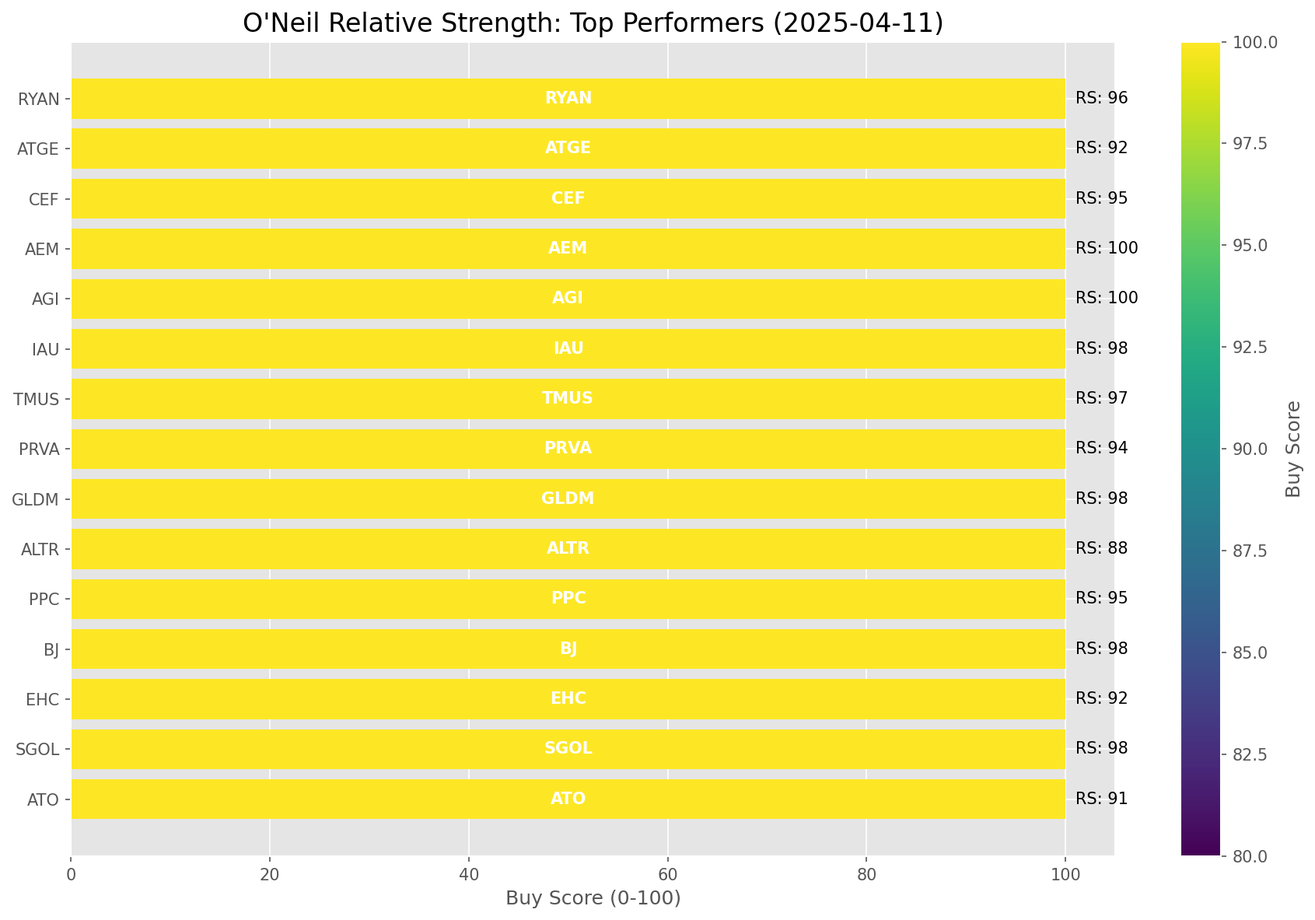
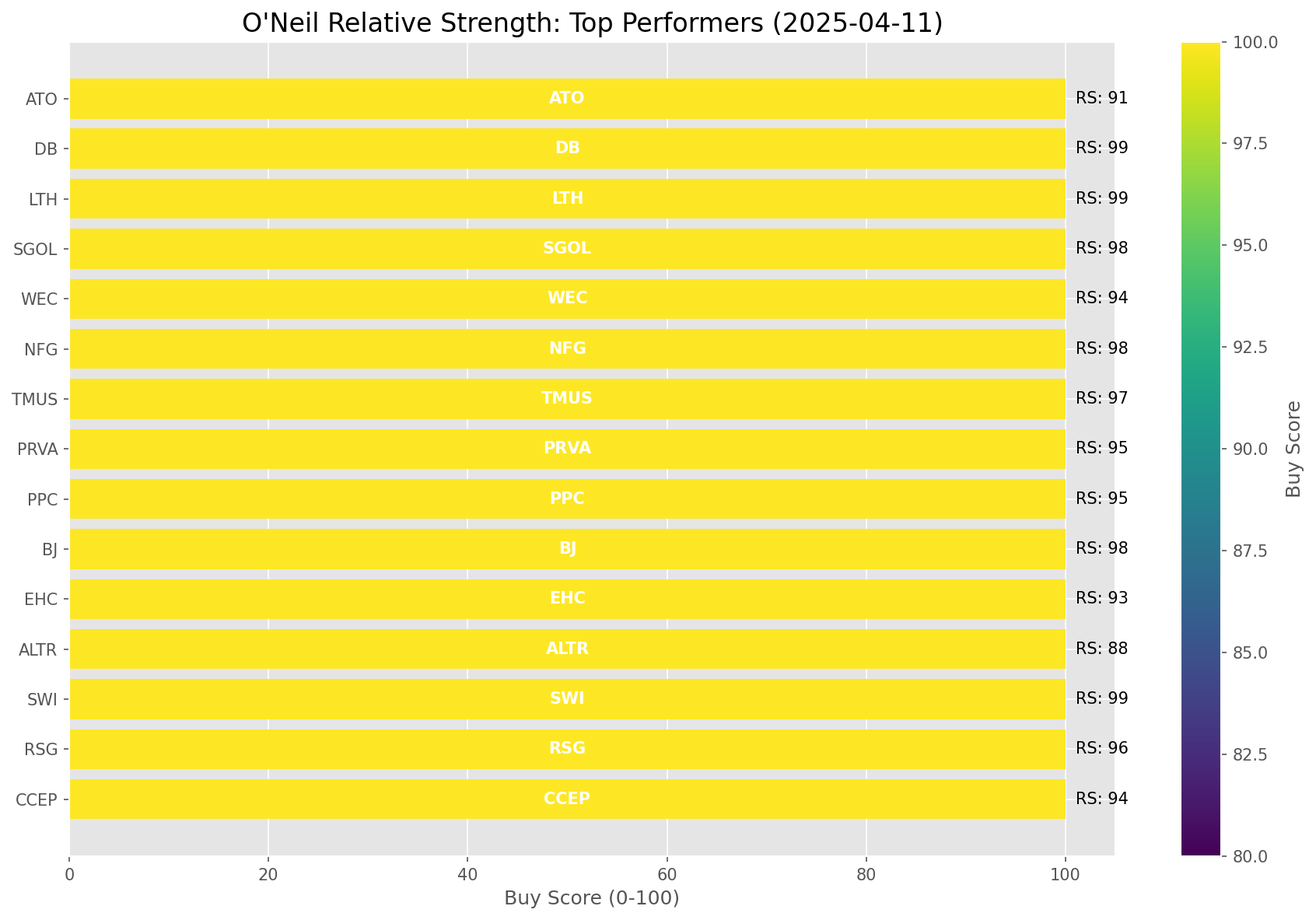
Add market report for 2025-04-11

diff --git a/oneil_relative_strength_report_2025-04-11.md b/oneil_relative_strength_report_2025-04-11.md
@@ -9,11 +9,11 @@
 | Metric | Value |
 |--------|-------|
 | **Market Valuation** | **Significantly Undervalued** |
-| **Current Ratio** | 8.75 |
+| **Current Ratio** | 8.78 |
 | **Historical Mean** | 9.69 |
 | **Standard Deviation** | 0.44 |
 | **Z-Score (StdDev from Mean)** | -2.33 |
-| **Total Market Cap** | $260.02 trillion |
+| **Total Market Cap** | $261.09 trillion |
 | **GDP** | $29.72 trillion |
 
 ## **Market Insights**
@@ -49,41 +49,41 @@ Based on William O'Neil's Relative Strength Methodology
 
 | ETF | Strength | RS Rating | Performance | Above Key MAs | Trend | Sector |
 |-----|----------|-----------|-------------|--------------|-------|--------|
-| [GLD](https://www.tradingview.com/chart/?symbol=GLD) | 99.0 | 98.0 | 21.04% | 10d ✓, 50d ✓, 200d ✓ | ↗ | Gold |
-| [SLV](https://www.tradingview.com/chart/?symbol=SLV) | 84.6 | 89.0 | 6.44% | 10d ✓, 50d ✗, 200d ✓ | ↗ | Silver |
-| [XLP](https://www.tradingview.com/chart/?symbol=XLP) | 83.1 | 86.0 | 3.84% | 10d ✓, 50d ✗, 200d ✓ | ↗ | Consumer Staples |
-| [DBA](https://www.tradingview.com/chart/?symbol=DBA) | 77.6 | 75.0 | -0.82% | 10d ✓, 50d ✗, 200d ✓ | ↗ | Agriculture |
-| [CIBR](https://www.tradingview.com/chart/?symbol=CIBR) | 74.6 | 69.0 | -3.30% | 10d ✓, 50d ✗, 200d ✓ | ↗ | Cybersecurity |
-| [KWEB](https://www.tradingview.com/chart/?symbol=KWEB) | 64.5 | 89.0 | 6.42% | 10d ✗, 50d ✗, 200d ✗ | ↗ | Chinese Internet |
-| [IYZ](https://www.tradingview.com/chart/?symbol=IYZ) | 64.2 | 68.0 | -4.20% | 10d ✗, 50d ✗, 200d ✓ | ↗ | Telecommunications |
-| [XLI](https://www.tradingview.com/chart/?symbol=XLI) | 61.4 | 63.0 | -5.90% | 10d ✓, 50d ✗, 200d ✗ | ↗ | Industrial |
-| [XLU](https://www.tradingview.com/chart/?symbol=XLU) | 58.5 | 77.0 | -0.04% | 10d ✗, 50d ✗, 200d ✗ | ↗ | Utilities |
-| [XLF](https://www.tradingview.com/chart/?symbol=XLF) | 54.0 | 68.0 | -4.18% | 10d ✗, 50d ✗, 200d ✗ | ↗ | Financial |
-| [IYR](https://www.tradingview.com/chart/?symbol=IYR) | 53.5 | 67.0 | -4.40% | 10d ✗, 50d ✗, 200d ✗ | ↗ | Real Estate |
-| [XLC](https://www.tradingview.com/chart/?symbol=XLC) | 50.5 | 61.0 | -6.57% | 10d ✗, 50d ✗, 200d ✗ | ↗ | Communications |
-| [UUP](https://www.tradingview.com/chart/?symbol=UUP) | 50.0 | 60.0 | -7.16% | 10d ✗, 50d ✗, 200d ✗ | ↗ | U.S. Dollar |
+| [GLD](https://www.tradingview.com/chart/?symbol=GLD) | 98.5 | 97.0 | 21.24% | 10d ✓, 50d ✓, 200d ✓ | ↗ | Gold |
+| [SLV](https://www.tradingview.com/chart/?symbol=SLV) | 84.6 | 89.0 | 6.70% | 10d ✓, 50d ✗, 200d ✓ | ↗ | Silver |
+| [XLP](https://www.tradingview.com/chart/?symbol=XLP) | 83.1 | 86.0 | 3.99% | 10d ✓, 50d ✗, 200d ✓ | ↗ | Consumer Staples |
+| [DBA](https://www.tradingview.com/chart/?symbol=DBA) | 77.1 | 74.0 | -0.85% | 10d ✓, 50d ✗, 200d ✓ | ↗ | Agriculture |
+| [CIBR](https://www.tradingview.com/chart/?symbol=CIBR) | 75.1 | 70.0 | -2.49% | 10d ✓, 50d ✗, 200d ✓ | ↗ | Cybersecurity |
+| [KWEB](https://www.tradingview.com/chart/?symbol=KWEB) | 65.0 | 90.0 | 7.46% | 10d ✗, 50d ✗, 200d ✗ | ↗ | Chinese Internet |
+| [IYZ](https://www.tradingview.com/chart/?symbol=IYZ) | 63.7 | 67.0 | -4.05% | 10d ✗, 50d ✗, 200d ✓ | ↗ | Telecommunications |
+| [XLI](https://www.tradingview.com/chart/?symbol=XLI) | 61.4 | 63.0 | -5.39% | 10d ✓, 50d ✗, 200d ✗ | ↗ | Industrial |
+| [XLU](https://www.tradingview.com/chart/?symbol=XLU) | 59.5 | 79.0 | 0.33% | 10d ✗, 50d ✗, 200d ✗ | ↗ | Utilities |
+| [PAVE](https://www.tradingview.com/chart/?symbol=PAVE) | 53.9 | 48.0 | -10.64% | 10d ✓, 50d ✗, 200d ✗ | ↗ | Infrastructure |
+| [IYR](https://www.tradingview.com/chart/?symbol=IYR) | 53.5 | 67.0 | -3.92% | 10d ✗, 50d ✗, 200d ✗ | ↗ | Real Estate |
+| [XLF](https://www.tradingview.com/chart/?symbol=XLF) | 53.5 | 67.0 | -3.75% | 10d ✗, 50d ✗, 200d ✗ | ↗ | Financial |
+| [XLC](https://www.tradingview.com/chart/?symbol=XLC) | 50.5 | 61.0 | -6.34% | 10d ✗, 50d ✗, 200d ✗ | ↗ | Communications |
+| [UUP](https://www.tradingview.com/chart/?symbol=UUP) | 49.5 | 59.0 | -7.02% | 10d ✗, 50d ✗, 200d ✗ | ↗ | U.S. Dollar |
+| [XLK](https://www.tradingview.com/chart/?symbol=XLK) | 48.9 | 38.0 | -15.17% | 10d ✓, 50d ✗, 200d ✗ | ↗ | Technology |
 | [BIL](https://www.tradingview.com/chart/?symbol=BIL) | 48.9 | 78.0 | 0.04% | 10d ✓, 50d ✗, 200d ✗ | ↘ | Short-term Treasuries |
-| [XLK](https://www.tradingview.com/chart/?symbol=XLK) | 48.9 | 38.0 | -15.74% | 10d ✓, 50d ✗, 200d ✗ | ↗ | Technology |
-| [BLOK](https://www.tradingview.com/chart/?symbol=BLOK) | 44.9 | 30.0 | -19.18% | 10d ✓, 50d ✗, 200d ✗ | ↗ | Blockchain & Cryptocurrency |
-| [PAVE](https://www.tradingview.com/chart/?symbol=PAVE) | 44.0 | 48.0 | -11.23% | 10d ✗, 50d ✗, 200d ✗ | ↗ | Infrastructure |
-| [AIQ](https://www.tradingview.com/chart/?symbol=AIQ) | 43.0 | 46.0 | -12.26% | 10d ✗, 50d ✗, 200d ✗ | ↗ | Artificial Intelligence & Technology |
-| [TLT](https://www.tradingview.com/chart/?symbol=TLT) | 40.5 | 81.0 | 0.88% | 10d ✗, 50d ✗, 200d ✗ | ↘ | Long-term Treasuries |
-| [IYT](https://www.tradingview.com/chart/?symbol=IYT) | 39.5 | 39.0 | -15.05% | 10d ✗, 50d ✗, 200d ✗ | ↗ | Transportation |
-| [XLY](https://www.tradingview.com/chart/?symbol=XLY) | 39.0 | 38.0 | -15.70% | 10d ✗, 50d ✗, 200d ✗ | ↗ | Consumer Discretionary |
-| [ARKF](https://www.tradingview.com/chart/?symbol=ARKF) | 38.0 | 36.0 | -16.38% | 10d ✗, 50d ✗, 200d ✗ | ↗ | Fintech Innovation |
-| [XLV](https://www.tradingview.com/chart/?symbol=XLV) | 35.5 | 71.0 | -2.88% | 10d ✗, 50d ✗, 200d ✗ | ↘ | Healthcare |
-| [ICLN](https://www.tradingview.com/chart/?symbol=ICLN) | 35.0 | 70.0 | -3.17% | 10d ✗, 50d ✗, 200d ✗ | ↘ | Clean Energy |
-| [DBC](https://www.tradingview.com/chart/?symbol=DBC) | 34.5 | 69.0 | -3.36% | 10d ✗, 50d ✗, 200d ✗ | ↘ | Commodities |
-| [ARKW](https://www.tradingview.com/chart/?symbol=ARKW) | 34.0 | 28.0 | -20.02% | 10d ✗, 50d ✗, 200d ✗ | ↗ | Next Generation Internet |
-| [XLB](https://www.tradingview.com/chart/?symbol=XLB) | 33.0 | 66.0 | -4.99% | 10d ✗, 50d ✗, 200d ✗ | ↘ | Materials |
-| [ARKK](https://www.tradingview.com/chart/?symbol=ARKK) | 30.5 | 21.0 | -23.71% | 10d ✗, 50d ✗, 200d ✗ | ↗ | Innovation |
-| [JETS](https://www.tradingview.com/chart/?symbol=JETS) | 28.5 | 17.0 | -27.44% | 10d ✗, 50d ✗, 200d ✗ | ↗ | Airlines |
-| [URA](https://www.tradingview.com/chart/?symbol=URA) | 24.9 | 30.0 | -18.93% | 10d ✓, 50d ✗, 200d ✗ | ↘ | Uranium |
-| [XLE](https://www.tradingview.com/chart/?symbol=XLE) | 24.0 | 48.0 | -11.42% | 10d ✗, 50d ✗, 200d ✗ | ↘ | Energy |
-| [ARKG](https://www.tradingview.com/chart/?symbol=ARKG) | 23.9 | 28.0 | -20.24% | 10d ✓, 50d ✗, 200d ✗ | ↘ | Genomics |
-| [IBB](https://www.tradingview.com/chart/?symbol=IBB) | 20.5 | 41.0 | -14.27% | 10d ✗, 50d ✗, 200d ✗ | ↘ | Biotechnology |
-| [ITB](https://www.tradingview.com/chart/?symbol=ITB) | 20.5 | 41.0 | -14.25% | 10d ✗, 50d ✗, 200d ✗ | ↘ | Home Construction |
-| [SOXX](https://www.tradingview.com/chart/?symbol=SOXX) | 10.5 | 21.0 | -23.67% | 10d ✗, 50d ✗, 200d ✗ | ↘ | Semiconductors |
+| [ICLN](https://www.tradingview.com/chart/?symbol=ICLN) | 44.9 | 70.0 | -2.78% | 10d ✓, 50d ✗, 200d ✗ | ↘ | Clean Energy |
+| [BLOK](https://www.tradingview.com/chart/?symbol=BLOK) | 44.9 | 30.0 | -18.42% | 10d ✓, 50d ✗, 200d ✗ | ↗ | Blockchain & Cryptocurrency |
+| [AIQ](https://www.tradingview.com/chart/?symbol=AIQ) | 43.0 | 46.0 | -11.81% | 10d ✗, 50d ✗, 200d ✗ | ↗ | Artificial Intelligence & Technology |
+| [ARKW](https://www.tradingview.com/chart/?symbol=ARKW) | 42.9 | 26.0 | -20.37% | 10d ✓, 50d ✗, 200d ✗ | ↗ | Next Generation Internet |
+| [ARKK](https://www.tradingview.com/chart/?symbol=ARKK) | 40.9 | 22.0 | -22.61% | 10d ✓, 50d ✗, 200d ✗ | ↗ | Innovation |
+| [TLT](https://www.tradingview.com/chart/?symbol=TLT) | 39.5 | 79.0 | 0.48% | 10d ✗, 50d ✗, 200d ✗ | ↘ | Long-term Treasuries |
+| [XLY](https://www.tradingview.com/chart/?symbol=XLY) | 39.0 | 38.0 | -15.16% | 10d ✗, 50d ✗, 200d ✗ | ↗ | Consumer Discretionary |
+| [IYT](https://www.tradingview.com/chart/?symbol=IYT) | 39.0 | 38.0 | -14.70% | 10d ✗, 50d ✗, 200d ✗ | ↗ | Transportation |
+| [ARKF](https://www.tradingview.com/chart/?symbol=ARKF) | 37.5 | 35.0 | -16.38% | 10d ✗, 50d ✗, 200d ✗ | ↗ | Fintech Innovation |
+| [XLV](https://www.tradingview.com/chart/?symbol=XLV) | 35.5 | 71.0 | -2.41% | 10d ✗, 50d ✗, 200d ✗ | ↘ | Healthcare |
+| [DBC](https://www.tradingview.com/chart/?symbol=DBC) | 34.5 | 69.0 | -2.97% | 10d ✗, 50d ✗, 200d ✗ | ↘ | Commodities |
+| [XLB](https://www.tradingview.com/chart/?symbol=XLB) | 33.5 | 67.0 | -4.13% | 10d ✗, 50d ✗, 200d ✗ | ↘ | Materials |
+| [JETS](https://www.tradingview.com/chart/?symbol=JETS) | 28.5 | 17.0 | -26.74% | 10d ✗, 50d ✗, 200d ✗ | ↗ | Airlines |
+| [URA](https://www.tradingview.com/chart/?symbol=URA) | 24.9 | 30.0 | -18.46% | 10d ✓, 50d ✗, 200d ✗ | ↘ | Uranium |
+| [ARKG](https://www.tradingview.com/chart/?symbol=ARKG) | 24.4 | 29.0 | -19.12% | 10d ✓, 50d ✗, 200d ✗ | ↘ | Genomics |
+| [XLE](https://www.tradingview.com/chart/?symbol=XLE) | 24.0 | 48.0 | -10.68% | 10d ✗, 50d ✗, 200d ✗ | ↘ | Energy |
+| [ITB](https://www.tradingview.com/chart/?symbol=ITB) | 20.5 | 41.0 | -13.49% | 10d ✗, 50d ✗, 200d ✗ | ↘ | Home Construction |
+| [IBB](https://www.tradingview.com/chart/?symbol=IBB) | 20.0 | 40.0 | -13.71% | 10d ✗, 50d ✗, 200d ✗ | ↘ | Biotechnology |
+| [SOXX](https://www.tradingview.com/chart/?symbol=SOXX) | 10.5 | 21.0 | -22.92% | 10d ✗, 50d ✗, 200d ✗ | ↘ | Semiconductors |
 
 ### **Sector ETF Performance Interpretation**
 
@@ -100,146 +100,146 @@ This table shows the relative strength metrics for different market sectors base
 
 The current market leadership is coming from the following sectors: **Gold, Silver, Consumer Staples**.
 
-The **Gold** sector (represented by **GLD**) is showing particularly strong relative strength with an RS rating of 98.0 and performance of 21.04% vs. the S&P 500. This sector is trading above its 10-day, 50-day, 200-day moving average(s). Investors should consider focusing on high RS stocks within these leading sectors for potential outperformance.
+The **Gold** sector (represented by **GLD**) is showing particularly strong relative strength with an RS rating of 97.0 and performance of 21.24% vs. the S&P 500. This sector is trading above its 10-day, 50-day, 200-day moving average(s). Investors should consider focusing on high RS stocks within these leading sectors for potential outperformance.
 
 ---
 
 ## **Buy Recommendations**
 
-The following 69 stocks show exceptional relative strength:
+The following 71 stocks show exceptional relative strength:
 
 | RS Rating | Buy Score | Current Price | Chart | Name | Ticker |
 |-----------|-----------|---------------|-------|------|--------|
-| 100 | 100 | $29.14 | [Chart](https://www.tradingview.com/chart/?symbol=AGI) | Alamos Gold Inc. Class A Common Shares | AGI |
-| 100 | 100 | $117.53 | [Chart](https://www.tradingview.com/chart/?symbol=AEM) | Agnico Eagle Mines Ltd. | AEM |
-| 100 | 100 | $81.97 | [Chart](https://www.tradingview.com/chart/?symbol=WPM) | Wheaton Precious Metals Corp. Common Stock | WPM |
-| 99 | 100 | $22.20 | [Chart](https://www.tradingview.com/chart/?symbol=DB) | Deutsche Bank Aktiengesellschaft | DB |
-| 99 | 100 | $60.98 | [Chart](https://www.tradingview.com/chart/?symbol=GDXJ) | VanEck Junior Gold Miners ETF | GDXJ |
-| 99 | 100 | $135.60 | [Chart](https://www.tradingview.com/chart/?symbol=UGL) | ProShares Ultra Gold | UGL |
+| 100 | 100 | $82.75 | [Chart](https://www.tradingview.com/chart/?symbol=WPM) | Wheaton Precious Metals Corp. Common Stock | WPM |
+| 100 | 100 | $29.57 | [Chart](https://www.tradingview.com/chart/?symbol=AGI) | Alamos Gold Inc. Class A Common Shares | AGI |
 | 99 | 100 | $18.48 | [Chart](https://www.tradingview.com/chart/?symbol=SWI) | SolarWinds Corporation Common Stock | SWI |
-| 99 | 100 | $142.99 | [Chart](https://www.tradingview.com/chart/?symbol=PLMR) | Palomar Holdings, Inc. Common stock | PLMR |
-| 99 | 100 | $30.68 | [Chart](https://www.tradingview.com/chart/?symbol=LTH) | Life Time Group Holdings, Inc. | LTH |
-| 99 | 100 | $179.92 | [Chart](https://www.tradingview.com/chart/?symbol=RGLD) | Royal Gold Inc | RGLD |
-| 99 | 100 | $15.64 | [Chart](https://www.tradingview.com/chart/?symbol=EZPW) | Ezcorp Inc | EZPW |
-| 98 | 100 | $30.78 | [Chart](https://www.tradingview.com/chart/?symbol=SGOL) | abrdn Physical Gold Shares ETF | SGOL |
-| 98 | 100 | $117.09 | [Chart](https://www.tradingview.com/chart/?symbol=BJ) | BJs Wholesale Club Holdings, Inc. Common Stock | BJ |
-| 98 | 100 | $63.94 | [Chart](https://www.tradingview.com/chart/?symbol=GLDM) | SPDR Gold MiniShares | GLDM |
-| 98 | 100 | $60.89 | [Chart](https://www.tradingview.com/chart/?symbol=IAU) | iShares Gold Trust | IAU |
-| 98 | 100 | $297.60 | [Chart](https://www.tradingview.com/chart/?symbol=GLD) | SPDR Gold Trust, SPDR Gold Shares | GLD |
-| 98 | 100 | $154.51 | [Chart](https://www.tradingview.com/chart/?symbol=PM) | Philip Morris International Inc. | PM |
-| 98 | 100 | $32.19 | [Chart](https://www.tradingview.com/chart/?symbol=IAUM) | iShares Gold Trust Micro | IAUM |
-| 97 | 100 | $258.56 | [Chart](https://www.tradingview.com/chart/?symbol=TMUS) | T-Mobile US, Inc. | TMUS |
-| 97 | 100 | $22.18 | [Chart](https://www.tradingview.com/chart/?symbol=OR) | Osisko Gold Royalties Ltd | OR |
-| 97 | 100 | $31.10 | [Chart](https://www.tradingview.com/chart/?symbol=OUNZ) | VanEck Merk Gold ETF | OUNZ |
-| 97 | 100 | $24.75 | [Chart](https://www.tradingview.com/chart/?symbol=PHYS) | Sprott Physical Gold Trust | PHYS |
-| 97 | 100 | $45.73 | [Chart](https://www.tradingview.com/chart/?symbol=EXC) | Exelon Corporation | EXC |
-| 97 | 100 | $31.83 | [Chart](https://www.tradingview.com/chart/?symbol=BAR) | GraniteShares Gold Shares | BAR |
-| 97 | 100 | $22.07 | [Chart](https://www.tradingview.com/chart/?symbol=SRAD) | Sportradar Group AG Class A Ordinary Shares | SRAD |
-| 96 | 100 | $72.28 | [Chart](https://www.tradingview.com/chart/?symbol=RYAN) | Ryan Specialty Holdings, Inc. | RYAN |
-| 96 | 100 | $243.70 | [Chart](https://www.tradingview.com/chart/?symbol=RSG) | Republic Services Inc. | RSG |
-| 96 | 100 | $36.38 | [Chart](https://www.tradingview.com/chart/?symbol=CNP) | CenterPoint Energy, Inc. | CNP |
-| 96 | 100 | $332.23 | [Chart](https://www.tradingview.com/chart/?symbol=AJG) | Arthur J. Gallagher & Co. | AJG |
-| 95 | 100 | $52.67 | [Chart](https://www.tradingview.com/chart/?symbol=PPC) | Pilgrims Pride Corporation | PPC |
-| 95 | 100 | $28.58 | [Chart](https://www.tradingview.com/chart/?symbol=CEF) | Sprott Physical Gold and Silver Trust | CEF |
-| 95 | 100 | $37.55 | [Chart](https://www.tradingview.com/chart/?symbol=MRX) | Marex Group plc Ordinary Shares | MRX |
-| 95 | 100 | $264.07 | [Chart](https://www.tradingview.com/chart/?symbol=CME) | CME Group Inc. | CME |
-| 95 | 100 | $453.63 | [Chart](https://www.tradingview.com/chart/?symbol=CASY) | Casey's General Stores Inc | CASY |
-| 95 | 100 | $68.14 | [Chart](https://www.tradingview.com/chart/?symbol=KR) | The Kroger Co. | KR |
-| 95 | 100 | $522.04 | [Chart](https://www.tradingview.com/chart/?symbol=BRK.B) | BERKSHIRE HATHAWAY Class B | BRK.B |
-| 94 | 100 | $23.90 | [Chart](https://www.tradingview.com/chart/?symbol=PRVA) | Privia Health Group, Inc. Common Stock | PRVA |
-| 94 | 100 | $208.83 | [Chart](https://www.tradingview.com/chart/?symbol=TTWO) | Take-Two Interactive Software Inc | TTWO |
-| 94 | 100 | $86.72 | [Chart](https://www.tradingview.com/chart/?symbol=CCEP) | Coca-Cola Europacific Partners plc Ordinary Shares | CCEP |
-| 94 | 100 | $41.53 | [Chart](https://www.tradingview.com/chart/?symbol=BTI) | British American Tobacco p.l.c. American Depositary Shares, American Depositary Shares, each representing one Ordinary Share | BTI |
-| 94 | 100 | $274.97 | [Chart](https://www.tradingview.com/chart/?symbol=PGR) | Progressive Corporation | PGR |
-| 94 | 100 | $106.60 | [Chart](https://www.tradingview.com/chart/?symbol=WEC) | WEC Energy Group, Inc. | WEC |
-| 94 | 100 | $32.71 | [Chart](https://www.tradingview.com/chart/?symbol=KTOS) | Kratos Defense & Security Solutions, Inc. | KTOS |
-| 94 | 100 | $55.81 | [Chart](https://www.tradingview.com/chart/?symbol=ULS) | UL Solutions Inc. | ULS |
-| 93 | 100 | $155.34 | [Chart](https://www.tradingview.com/chart/?symbol=SFM) | Sprouts Farmers Market, Inc. | SFM |
-| 93 | 100 | $80.87 | [Chart](https://www.tradingview.com/chart/?symbol=FAST) | Fastenal Co | FAST |
-| 93 | 100 | $194.14 | [Chart](https://www.tradingview.com/chart/?symbol=WCN) | Waste Connections, Inc. | WCN |
-| 92 | 100 | $102.00 | [Chart](https://www.tradingview.com/chart/?symbol=EHC) | Encompass Health Corporation Common Stock | EHC |
-| 92 | 100 | $103.29 | [Chart](https://www.tradingview.com/chart/?symbol=ATGE) | Adtalem Global Education Inc. Common Shares | ATGE |
-| 92 | 100 | $74.65 | [Chart](https://www.tradingview.com/chart/?symbol=OGS) | ONE GAS, INC. | OGS |
-| 91 | 100 | $151.12 | [Chart](https://www.tradingview.com/chart/?symbol=ATO) | Atmos Energy Corporation | ATO |
-| 91 | 100 | $112.89 | [Chart](https://www.tradingview.com/chart/?symbol=OLLI) | Ollie's Bargain Outlet Holdings, Inc. Common Stock | OLLI |
-| 90 | 100 | $74.48 | [Chart](https://www.tradingview.com/chart/?symbol=ADC) | Agree Realty Corporation | ADC |
-| 90 | 100 | $213.73 | [Chart](https://www.tradingview.com/chart/?symbol=PAYC) | PAYCOM SOFTWARE, INC. | PAYC |
-| 90 | 100 | $47.80 | [Chart](https://www.tradingview.com/chart/?symbol=GFL) | GFL Environmental Inc. Subordinate Voting Shares | GFL |
-| 90 | 100 | $307.48 | [Chart](https://www.tradingview.com/chart/?symbol=MCD) | McDonald's Corporation | MCD |
-| 88 | 100 | $46.22 | [Chart](https://www.tradingview.com/chart/?symbol=MRCY) | Mercury Systems Inc. | MRCY |
-| 88 | 100 | $116.77 | [Chart](https://www.tradingview.com/chart/?symbol=IDA) | IDACORP, Inc. | IDA |
-| 88 | 99 | $49.47 | [Chart](https://www.tradingview.com/chart/?symbol=RELX) | RELX PLC | RELX |
-| 86 | 99 | $17.98 | [Chart](https://www.tradingview.com/chart/?symbol=GRND) | Grindr Inc. | GRND |
-| 87 | 98 | $113.08 | [Chart](https://www.tradingview.com/chart/?symbol=CWST) | Casella Waste Systems Inc | CWST |
-| 86 | 98 | $34.71 | [Chart](https://www.tradingview.com/chart/?symbol=DRS) | Leonardo DRS, Inc. Common Stock | DRS |
-| 87 | 97 | $128.16 | [Chart](https://www.tradingview.com/chart/?symbol=TJX) | TJX Companies, Inc. (The) | TJX |
-| 85 | 96 | $74.84 | [Chart](https://www.tradingview.com/chart/?symbol=BRBR) | BellRing Brands, Inc. | BRBR |
-| 83 | 95 | $22.48 | [Chart](https://www.tradingview.com/chart/?symbol=ATSG) | Air Transport Services Group, Inc. | ATSG |
-| 84 | 94 | $59.52 | [Chart](https://www.tradingview.com/chart/?symbol=RYTM) | Rhythm Pharmaceuticals, Inc. Common Stock | RYTM |
-| 83 | 94 | $35.90 | [Chart](https://www.tradingview.com/chart/?symbol=FYBR) | Frontier Communications Parent, Inc. Common Stock | FYBR |
-| 81 | 94 | $111.64 | [Chart](https://www.tradingview.com/chart/?symbol=BOXX) | Alpha Architect 1-3 Month Box ETF | BOXX |
-| 82 | 92 | $22.48 | [Chart](https://www.tradingview.com/chart/?symbol=PYCR) | Paycor HCM, Inc. Common Stock | PYCR |
+| 99 | 100 | $30.99 | [Chart](https://www.tradingview.com/chart/?symbol=LTH) | Life Time Group Holdings, Inc. | LTH |
+| 99 | 100 | $22.27 | [Chart](https://www.tradingview.com/chart/?symbol=DB) | Deutsche Bank Aktiengesellschaft | DB |
+| 99 | 100 | $118.11 | [Chart](https://www.tradingview.com/chart/?symbol=AEM) | Agnico Eagle Mines Ltd. | AEM |
+| 99 | 100 | $146.32 | [Chart](https://www.tradingview.com/chart/?symbol=PLMR) | Palomar Holdings, Inc. Common stock | PLMR |
+| 99 | 100 | $15.70 | [Chart](https://www.tradingview.com/chart/?symbol=EZPW) | Ezcorp Inc | EZPW |
+| 99 | 100 | $61.41 | [Chart](https://www.tradingview.com/chart/?symbol=GDXJ) | VanEck Junior Gold Miners ETF | GDXJ |
+| 99 | 100 | $136.05 | [Chart](https://www.tradingview.com/chart/?symbol=UGL) | ProShares Ultra Gold | UGL |
+| 99 | 100 | $180.90 | [Chart](https://www.tradingview.com/chart/?symbol=RGLD) | Royal Gold Inc | RGLD |
+| 98 | 100 | $117.29 | [Chart](https://www.tradingview.com/chart/?symbol=BJ) | BJs Wholesale Club Holdings, Inc. Common Stock | BJ |
+| 98 | 100 | $76.43 | [Chart](https://www.tradingview.com/chart/?symbol=NFG) | National Fuel Gas Co. | NFG |
+| 98 | 100 | $30.85 | [Chart](https://www.tradingview.com/chart/?symbol=SGOL) | abrdn Physical Gold Shares ETF | SGOL |
+| 98 | 100 | $32.24 | [Chart](https://www.tradingview.com/chart/?symbol=IAUM) | iShares Gold Trust Micro | IAUM |
+| 98 | 100 | $64.03 | [Chart](https://www.tradingview.com/chart/?symbol=GLDM) | SPDR Gold MiniShares | GLDM |
+| 98 | 100 | $154.43 | [Chart](https://www.tradingview.com/chart/?symbol=PM) | Philip Morris International Inc. | PM |
+| 97 | 100 | $258.79 | [Chart](https://www.tradingview.com/chart/?symbol=TMUS) | T-Mobile US, Inc. | TMUS |
+| 97 | 100 | $60.98 | [Chart](https://www.tradingview.com/chart/?symbol=IAU) | iShares Gold Trust | IAU |
+| 97 | 100 | $31.90 | [Chart](https://www.tradingview.com/chart/?symbol=BAR) | GraniteShares Gold Shares | BAR |
+| 97 | 100 | $298.07 | [Chart](https://www.tradingview.com/chart/?symbol=GLD) | SPDR Gold Trust, SPDR Gold Shares | GLD |
+| 97 | 100 | $24.82 | [Chart](https://www.tradingview.com/chart/?symbol=PHYS) | Sprott Physical Gold Trust | PHYS |
+| 97 | 100 | $22.30 | [Chart](https://www.tradingview.com/chart/?symbol=OR) | Osisko Gold Royalties Ltd | OR |
+| 97 | 100 | $72.56 | [Chart](https://www.tradingview.com/chart/?symbol=RYAN) | Ryan Specialty Holdings, Inc. | RYAN |
+| 97 | 100 | $31.16 | [Chart](https://www.tradingview.com/chart/?symbol=OUNZ) | VanEck Merk Gold ETF | OUNZ |
+| 97 | 100 | $45.91 | [Chart](https://www.tradingview.com/chart/?symbol=EXC) | Exelon Corporation | EXC |
+| 97 | 100 | $22.32 | [Chart](https://www.tradingview.com/chart/?symbol=SRAD) | Sportradar Group AG Class A Ordinary Shares | SRAD |
+| 96 | 100 | $243.93 | [Chart](https://www.tradingview.com/chart/?symbol=RSG) | Republic Services Inc. | RSG |
+| 96 | 100 | $332.79 | [Chart](https://www.tradingview.com/chart/?symbol=AJG) | Arthur J. Gallagher & Co. | AJG |
+| 96 | 100 | $36.46 | [Chart](https://www.tradingview.com/chart/?symbol=CNP) | CenterPoint Energy, Inc. | CNP |
+| 96 | 100 | $38.02 | [Chart](https://www.tradingview.com/chart/?symbol=MRX) | Marex Group plc Ordinary Shares | MRX |
+| 95 | 100 | $52.90 | [Chart](https://www.tradingview.com/chart/?symbol=PPC) | Pilgrims Pride Corporation | PPC |
+| 95 | 100 | $24.07 | [Chart](https://www.tradingview.com/chart/?symbol=PRVA) | Privia Health Group, Inc. Common Stock | PRVA |
+| 95 | 100 | $455.26 | [Chart](https://www.tradingview.com/chart/?symbol=CASY) | Casey's General Stores Inc | CASY |
+| 95 | 100 | $28.66 | [Chart](https://www.tradingview.com/chart/?symbol=CEF) | Sprott Physical Gold and Silver Trust | CEF |
+| 95 | 100 | $68.35 | [Chart](https://www.tradingview.com/chart/?symbol=KR) | The Kroger Co. | KR |
+| 95 | 100 | $522.86 | [Chart](https://www.tradingview.com/chart/?symbol=BRK.B) | BERKSHIRE HATHAWAY Class B | BRK.B |
+| 94 | 100 | $86.87 | [Chart](https://www.tradingview.com/chart/?symbol=CCEP) | Coca-Cola Europacific Partners plc Ordinary Shares | CCEP |
+| 94 | 100 | $106.86 | [Chart](https://www.tradingview.com/chart/?symbol=WEC) | WEC Energy Group, Inc. | WEC |
+| 94 | 100 | $32.85 | [Chart](https://www.tradingview.com/chart/?symbol=KTOS) | Kratos Defense & Security Solutions, Inc. | KTOS |
+| 94 | 100 | $41.59 | [Chart](https://www.tradingview.com/chart/?symbol=BTI) | British American Tobacco p.l.c. American Depositary Shares, American Depositary Shares, each representing one Ordinary Share | BTI |
+| 94 | 100 | $210.05 | [Chart](https://www.tradingview.com/chart/?symbol=TTWO) | Take-Two Interactive Software Inc | TTWO |
+| 94 | 100 | $274.40 | [Chart](https://www.tradingview.com/chart/?symbol=PGR) | Progressive Corporation | PGR |
+| 94 | 100 | $262.70 | [Chart](https://www.tradingview.com/chart/?symbol=CME) | CME Group Inc. | CME |
+| 94 | 100 | $56.09 | [Chart](https://www.tradingview.com/chart/?symbol=ULS) | UL Solutions Inc. | ULS |
+| 93 | 100 | $103.33 | [Chart](https://www.tradingview.com/chart/?symbol=EHC) | Encompass Health Corporation Common Stock | EHC |
+| 93 | 100 | $80.88 | [Chart](https://www.tradingview.com/chart/?symbol=FAST) | Fastenal Co | FAST |
+| 93 | 100 | $156.50 | [Chart](https://www.tradingview.com/chart/?symbol=SFM) | Sprouts Farmers Market, Inc. | SFM |
+| 92 | 100 | $104.19 | [Chart](https://www.tradingview.com/chart/?symbol=ATGE) | Adtalem Global Education Inc. Common Shares | ATGE |
+| 92 | 100 | $194.22 | [Chart](https://www.tradingview.com/chart/?symbol=WCN) | Waste Connections, Inc. | WCN |
+| 91 | 100 | $151.30 | [Chart](https://www.tradingview.com/chart/?symbol=ATO) | Atmos Energy Corporation | ATO |
+| 91 | 100 | $114.24 | [Chart](https://www.tradingview.com/chart/?symbol=OLLI) | Ollie's Bargain Outlet Holdings, Inc. Common Stock | OLLI |
+| 90 | 100 | $308.93 | [Chart](https://www.tradingview.com/chart/?symbol=MCD) | McDonald's Corporation | MCD |
+| 90 | 100 | $48.03 | [Chart](https://www.tradingview.com/chart/?symbol=GFL) | GFL Environmental Inc. Subordinate Voting Shares | GFL |
+| 90 | 100 | $215.16 | [Chart](https://www.tradingview.com/chart/?symbol=PAYC) | PAYCOM SOFTWARE, INC. | PAYC |
+| 90 | 100 | $74.86 | [Chart](https://www.tradingview.com/chart/?symbol=ADC) | Agree Realty Corporation | ADC |
+| 89 | 100 | $275.10 | [Chart](https://www.tradingview.com/chart/?symbol=PEN) | Penumbra, Inc. | PEN |
+| 89 | 100 | $114.85 | [Chart](https://www.tradingview.com/chart/?symbol=CWST) | Casella Waste Systems Inc | CWST |
+| 88 | 100 | $117.15 | [Chart](https://www.tradingview.com/chart/?symbol=IDA) | IDACORP, Inc. | IDA |
+| 88 | 99 | $49.62 | [Chart](https://www.tradingview.com/chart/?symbol=RELX) | RELX PLC | RELX |
+| 87 | 99 | $46.25 | [Chart](https://www.tradingview.com/chart/?symbol=MRCY) | Mercury Systems Inc. | MRCY |
+| 86 | 99 | $18.07 | [Chart](https://www.tradingview.com/chart/?symbol=GRND) | Grindr Inc. | GRND |
+| 86 | 98 | $34.72 | [Chart](https://www.tradingview.com/chart/?symbol=DRS) | Leonardo DRS, Inc. Common Stock | DRS |
+| 87 | 97 | $128.62 | [Chart](https://www.tradingview.com/chart/?symbol=TJX) | TJX Companies, Inc. (The) | TJX |
+| 86 | 97 | $292.41 | [Chart](https://www.tradingview.com/chart/?symbol=VRSK) | Verisk Analytics, Inc. Common Stock | VRSK |
+| 85 | 96 | $75.29 | [Chart](https://www.tradingview.com/chart/?symbol=BRBR) | BellRing Brands, Inc. | BRBR |
+| 82 | 94 | $22.48 | [Chart](https://www.tradingview.com/chart/?symbol=ATSG) | Air Transport Services Group, Inc. | ATSG |
+| 81 | 94 | $111.66 | [Chart](https://www.tradingview.com/chart/?symbol=BOXX) | Alpha Architect 1-3 Month Box ETF | BOXX |
+| 82 | 92 | $22.49 | [Chart](https://www.tradingview.com/chart/?symbol=PYCR) | Paycor HCM, Inc. Common Stock | PYCR |
+| 82 | 92 | $53.67 | [Chart](https://www.tradingview.com/chart/?symbol=IGF) | iShares Global Infrastructure ETF | IGF |
+| 82 | 92 | $58.83 | [Chart](https://www.tradingview.com/chart/?symbol=RYTM) | Rhythm Pharmaceuticals, Inc. Common Stock | RYTM |
 
 ---
 
 
 ## **Sell Recommendations**
 
-The following 51 stocks show deteriorating relative strength:
+The following 49 stocks show deteriorating relative strength:
 
 | RS Rating | Sell Score | Current Price | Chart | Name | Ticker |
 |-----------|------------|---------------|-------|------|--------|
-| 1 | 100 | $65.49 | [Chart](https://www.tradingview.com/chart/?symbol=PI) | Impinj, Inc. Common Stock | PI |
-| 3 | 100 | $18.78 | [Chart](https://www.tradingview.com/chart/?symbol=DJT) | Trump Media & Technology Group Corp. Common Stock | DJT |
-| 4 | 100 | $33.65 | [Chart](https://www.tradingview.com/chart/?symbol=HELE) | Helen Of Troy Ltd | HELE |
-| 5 | 100 | $11.41 | [Chart](https://www.tradingview.com/chart/?symbol=GCT) | GigaCloud Technology Inc Class A Ordinary Shares | GCT |
-| 7 | 100 | $10.10 | [Chart](https://www.tradingview.com/chart/?symbol=CGEM) | Cullinan Therapeutics, Inc. Common Stock | CGEM |
-| 11 | 100 | $42.44 | [Chart](https://www.tradingview.com/chart/?symbol=EDU) | New Oriental Education and Technology Group, Inc. American Depositary Shares (each representing ten (10) Common Shares) | EDU |
-| 13 | 100 | $27.24 | [Chart](https://www.tradingview.com/chart/?symbol=SRDX) | Surmodics, Inc. Common Stock | SRDX |
-| 14 | 98 | $19.32 | [Chart](https://www.tradingview.com/chart/?symbol=ST) | Sensata Technologies Holding plc | ST |
-| 16 | 95 | $50.12 | [Chart](https://www.tradingview.com/chart/?symbol=ENPH) | Enphase Energy, Inc. | ENPH |
-| 15 | 94 | $11.78 | [Chart](https://www.tradingview.com/chart/?symbol=AEYE) | AudioEye, Inc. Common Stock | AEYE |
-| 15 | 94 | $18.98 | [Chart](https://www.tradingview.com/chart/?symbol=HZO) | MarineMax, Inc. | HZO |
-| 13 | 93 | $59.63 | [Chart](https://www.tradingview.com/chart/?symbol=ASGN) | ASGN Incorporated | ASGN |
-| 19 | 92 | $51.59 | [Chart](https://www.tradingview.com/chart/?symbol=CNMD) | CONMED Corporation | CNMD |
-| 25 | 92 | $10.03 | [Chart](https://www.tradingview.com/chart/?symbol=MTAL) | MAC Copper Limited | MTAL |
-| 11 | 91 | $12.26 | [Chart](https://www.tradingview.com/chart/?symbol=MARA) | MARA Holdings, Inc. Common Stock | MARA |
+| 1 | 100 | $66.39 | [Chart](https://www.tradingview.com/chart/?symbol=PI) | Impinj, Inc. Common Stock | PI |
+| 3 | 100 | $18.94 | [Chart](https://www.tradingview.com/chart/?symbol=DJT) | Trump Media & Technology Group Corp. Common Stock | DJT |
+| 4 | 100 | $34.34 | [Chart](https://www.tradingview.com/chart/?symbol=HELE) | Helen Of Troy Ltd | HELE |
+| 5 | 100 | $11.56 | [Chart](https://www.tradingview.com/chart/?symbol=GCT) | GigaCloud Technology Inc Class A Ordinary Shares | GCT |
+| 6 | 100 | $10.10 | [Chart](https://www.tradingview.com/chart/?symbol=CGEM) | Cullinan Therapeutics, Inc. Common Stock | CGEM |
+| 11 | 100 | $42.94 | [Chart](https://www.tradingview.com/chart/?symbol=EDU) | New Oriental Education and Technology Group, Inc. American Depositary Shares (each representing ten (10) Common Shares) | EDU |
+| 12 | 100 | $27.24 | [Chart](https://www.tradingview.com/chart/?symbol=SRDX) | Surmodics, Inc. Common Stock | SRDX |
+| 13 | 98 | $19.47 | [Chart](https://www.tradingview.com/chart/?symbol=ST) | Sensata Technologies Holding plc | ST |
+| 14 | 95 | $11.78 | [Chart](https://www.tradingview.com/chart/?symbol=AEYE) | AudioEye, Inc. Common Stock | AEYE |
+| 17 | 94 | $51.01 | [Chart](https://www.tradingview.com/chart/?symbol=ENPH) | Enphase Energy, Inc. | ENPH |
+| 15 | 93 | $19.22 | [Chart](https://www.tradingview.com/chart/?symbol=HZO) | MarineMax, Inc. | HZO |
+| 24 | 93 | $10.03 | [Chart](https://www.tradingview.com/chart/?symbol=MTAL) | MAC Copper Limited | MTAL |
+| 13 | 92 | $60.49 | [Chart](https://www.tradingview.com/chart/?symbol=ASGN) | ASGN Incorporated | ASGN |
+| 19 | 92 | $52.15 | [Chart](https://www.tradingview.com/chart/?symbol=CNMD) | CONMED Corporation | CNMD |
+| 27 | 91 | $13.14 | [Chart](https://www.tradingview.com/chart/?symbol=MED) | Medifast, Inc. | MED |
 | 16 | 90 | $10.24 | [Chart](https://www.tradingview.com/chart/?symbol=EXPI) | eXp World Holdings, Inc. Common Stock | EXPI |
-| 16 | 90 | $48.70 | [Chart](https://www.tradingview.com/chart/?symbol=RHI) | Robert Half Inc. | RHI |
-| 28 | 90 | $13.14 | [Chart](https://www.tradingview.com/chart/?symbol=MED) | Medifast, Inc. | MED |
+| 16 | 90 | $49.09 | [Chart](https://www.tradingview.com/chart/?symbol=RHI) | Robert Half Inc. | RHI |
+| 12 | 89 | $12.49 | [Chart](https://www.tradingview.com/chart/?symbol=MARA) | MARA Holdings, Inc. Common Stock | MARA |
 | 12 | 89 | $10.01 | [Chart](https://www.tradingview.com/chart/?symbol=VYX) | NCR Voyix Corporation | VYX |
-| 18 | 89 | $332.59 | [Chart](https://www.tradingview.com/chart/?symbol=SAIA) | Saia, Inc. | SAIA |
-| 26 | 89 | $13.39 | [Chart](https://www.tradingview.com/chart/?symbol=FXN) | First Trust Energy AlphaDEX Fund | FXN |
+| 18 | 89 | $334.23 | [Chart](https://www.tradingview.com/chart/?symbol=SAIA) | Saia, Inc. | SAIA |
+| 26 | 89 | $13.50 | [Chart](https://www.tradingview.com/chart/?symbol=FXN) | First Trust Energy AlphaDEX Fund | FXN |
 | 15 | 86 | $10.31 | [Chart](https://www.tradingview.com/chart/?symbol=VREX) | Varex Imaging Corporation Common Stock | VREX |
-| 18 | 86 | $16.58 | [Chart](https://www.tradingview.com/chart/?symbol=IART) | Integra LifeSciences Holdings | IART |
-| 21 | 86 | $22.09 | [Chart](https://www.tradingview.com/chart/?symbol=HOG) | Harley-Davidson, Inc. | HOG |
-| 23 | 84 | $27.26 | [Chart](https://www.tradingview.com/chart/?symbol=TAN) | Invesco Solar ETF | TAN |
-| 23 | 84 | $10.49 | [Chart](https://www.tradingview.com/chart/?symbol=PEB) | Pebblebrook Hotel Trust | PEB |
-| 17 | 83 | $111.89 | [Chart](https://www.tradingview.com/chart/?symbol=MYRG) | MYR Group, Inc. | MYRG |
-| 20 | 83 | $10.15 | [Chart](https://www.tradingview.com/chart/?symbol=HLIT) | Harmonic Inc | HLIT |
-| 22 | 83 | $11.34 | [Chart](https://www.tradingview.com/chart/?symbol=HPK) | HighPeak Energy, Inc. Common Stock | HPK |
-| 24 | 83 | $10.33 | [Chart](https://www.tradingview.com/chart/?symbol=CMP) | Compass Minerals International, Inc. | CMP |
-| 25 | 82 | $10.04 | [Chart](https://www.tradingview.com/chart/?symbol=HTLD) | Heartland Express Inc | HTLD |
-| 30 | 82 | $10.11 | [Chart](https://www.tradingview.com/chart/?symbol=CELC) | Celcuity Inc. Common Stock | CELC |
-| 25 | 81 | $51.06 | [Chart](https://www.tradingview.com/chart/?symbol=HXL) | Hexcel Corporation | HXL |
-| 26 | 80 | $11.24 | [Chart](https://www.tradingview.com/chart/?symbol=RIVN) | Rivian Automotive, Inc. Class A Common Stock | RIVN |
-| 33 | 80 | $76.51 | [Chart](https://www.tradingview.com/chart/?symbol=LEA) | Lear Corporation | LEA |
-| 32 | 78 | $10.71 | [Chart](https://www.tradingview.com/chart/?symbol=DBRG) | DigitalBridge Group, Inc. | DBRG |
-| 26 | 77 | $10.26 | [Chart](https://www.tradingview.com/chart/?symbol=PACS) | PACS Group, Inc. | PACS |
-| 32 | 76 | $56.13 | [Chart](https://www.tradingview.com/chart/?symbol=BMRN) | BioMarin Pharmaceuticals Inc | BMRN |
-| 35 | 73 | $10.88 | [Chart](https://www.tradingview.com/chart/?symbol=NAVI) | Navient Corporation | NAVI |
-| 38 | 73 | $10.30 | [Chart](https://www.tradingview.com/chart/?symbol=CSTM) | Constellium SE Class A Ordinary shares | CSTM |
-| 31 | 71 | $28.86 | [Chart](https://www.tradingview.com/chart/?symbol=TPH) | Tri Pointe Homes, Inc. | TPH |
-| 32 | 71 | $24.80 | [Chart](https://www.tradingview.com/chart/?symbol=RAMP) | LiveRamp Holdings, Inc. Common Stock | RAMP |
-| 33 | 71 | $138.14 | [Chart](https://www.tradingview.com/chart/?symbol=LSTR) | Landstar System Inc | LSTR |
-| 35 | 70 | $10.34 | [Chart](https://www.tradingview.com/chart/?symbol=CMRE) | Costamare Inc. | CMRE |
-| 36 | 69 | $16.74 | [Chart](https://www.tradingview.com/chart/?symbol=CTRI) | Centuri Holdings, Inc. | CTRI |
-| 39 | 68 | $28.61 | [Chart](https://www.tradingview.com/chart/?symbol=DAR) | DARLING INGREDIENTS INC. | DAR |
-| 39 | 68 | $76.75 | [Chart](https://www.tradingview.com/chart/?symbol=TNET) | TRINET GROUP, INC. | TNET |
-| 39 | 68 | $79.47 | [Chart](https://www.tradingview.com/chart/?symbol=ALV) | Autoliv, Inc. | ALV |
-| 39 | 68 | $10.92 | [Chart](https://www.tradingview.com/chart/?symbol=LBTYK) | Liberty Global Ltd. Class C Common Shares | LBTYK |
-| 38 | 66 | $152.23 | [Chart](https://www.tradingview.com/chart/?symbol=ODFL) | Old Dominion Freight Line | ODFL |
-| 38 | 63 | $34.28 | [Chart](https://www.tradingview.com/chart/?symbol=LIT) | Global X Lithium & Battery Tech ETF | LIT |
+| 19 | 85 | $16.79 | [Chart](https://www.tradingview.com/chart/?symbol=IART) | Integra LifeSciences Holdings | IART |
+| 22 | 85 | $10.49 | [Chart](https://www.tradingview.com/chart/?symbol=PEB) | Pebblebrook Hotel Trust | PEB |
+| 22 | 85 | $22.38 | [Chart](https://www.tradingview.com/chart/?symbol=HOG) | Harley-Davidson, Inc. | HOG |
+| 16 | 84 | $111.89 | [Chart](https://www.tradingview.com/chart/?symbol=MYRG) | MYR Group, Inc. | MYRG |
+| 19 | 84 | $10.15 | [Chart](https://www.tradingview.com/chart/?symbol=HLIT) | Harmonic Inc | HLIT |
+| 21 | 84 | $11.34 | [Chart](https://www.tradingview.com/chart/?symbol=HPK) | HighPeak Energy, Inc. Common Stock | HPK |
+| 23 | 84 | $27.49 | [Chart](https://www.tradingview.com/chart/?symbol=TAN) | Invesco Solar ETF | TAN |
+| 28 | 84 | $10.11 | [Chart](https://www.tradingview.com/chart/?symbol=CELC) | Celcuity Inc. Common Stock | CELC |
+| 24 | 83 | $10.04 | [Chart](https://www.tradingview.com/chart/?symbol=HTLD) | Heartland Express Inc | HTLD |
+| 26 | 81 | $10.56 | [Chart](https://www.tradingview.com/chart/?symbol=CMP) | Compass Minerals International, Inc. | CMP |
+| 26 | 80 | $51.67 | [Chart](https://www.tradingview.com/chart/?symbol=HXL) | Hexcel Corporation | HXL |
+| 26 | 80 | $11.29 | [Chart](https://www.tradingview.com/chart/?symbol=RIVN) | Rivian Automotive, Inc. Class A Common Stock | RIVN |
+| 24 | 79 | $10.26 | [Chart](https://www.tradingview.com/chart/?symbol=PACS) | PACS Group, Inc. | PACS |
+| 31 | 79 | $10.71 | [Chart](https://www.tradingview.com/chart/?symbol=DBRG) | DigitalBridge Group, Inc. | DBRG |
+| 33 | 79 | $76.88 | [Chart](https://www.tradingview.com/chart/?symbol=LEA) | Lear Corporation | LEA |
+| 31 | 77 | $56.15 | [Chart](https://www.tradingview.com/chart/?symbol=BMRN) | BioMarin Pharmaceuticals Inc | BMRN |
+| 33 | 75 | $10.87 | [Chart](https://www.tradingview.com/chart/?symbol=NAVI) | Navient Corporation | NAVI |
+| 36 | 75 | $10.30 | [Chart](https://www.tradingview.com/chart/?symbol=CSTM) | Constellium SE Class A Ordinary shares | CSTM |
+| 39 | 74 | $65.11 | [Chart](https://www.tradingview.com/chart/?symbol=TXT) | Textron, Inc. | TXT |
+| 34 | 71 | $10.34 | [Chart](https://www.tradingview.com/chart/?symbol=CMRE) | Costamare Inc. | CMRE |
+| 36 | 71 | $10.85 | [Chart](https://www.tradingview.com/chart/?symbol=LBTYK) | Liberty Global Ltd. Class C Common Shares | LBTYK |
+| 32 | 70 | $24.95 | [Chart](https://www.tradingview.com/chart/?symbol=RAMP) | LiveRamp Holdings, Inc. Common Stock | RAMP |
+| 32 | 70 | $29.08 | [Chart](https://www.tradingview.com/chart/?symbol=TPH) | Tri Pointe Homes, Inc. | TPH |
+| 38 | 68 | $79.67 | [Chart](https://www.tradingview.com/chart/?symbol=ALV) | Autoliv, Inc. | ALV |
+| 39 | 68 | $23.85 | [Chart](https://www.tradingview.com/chart/?symbol=AMRK) | A-Mark Precious Metals, Inc. | AMRK |
+| 39 | 68 | $28.87 | [Chart](https://www.tradingview.com/chart/?symbol=DAR) | DARLING INGREDIENTS INC. | DAR |
+| 39 | 65 | $153.30 | [Chart](https://www.tradingview.com/chart/?symbol=ODFL) | Old Dominion Freight Line | ODFL |
 
 ## **Methodology**
 
